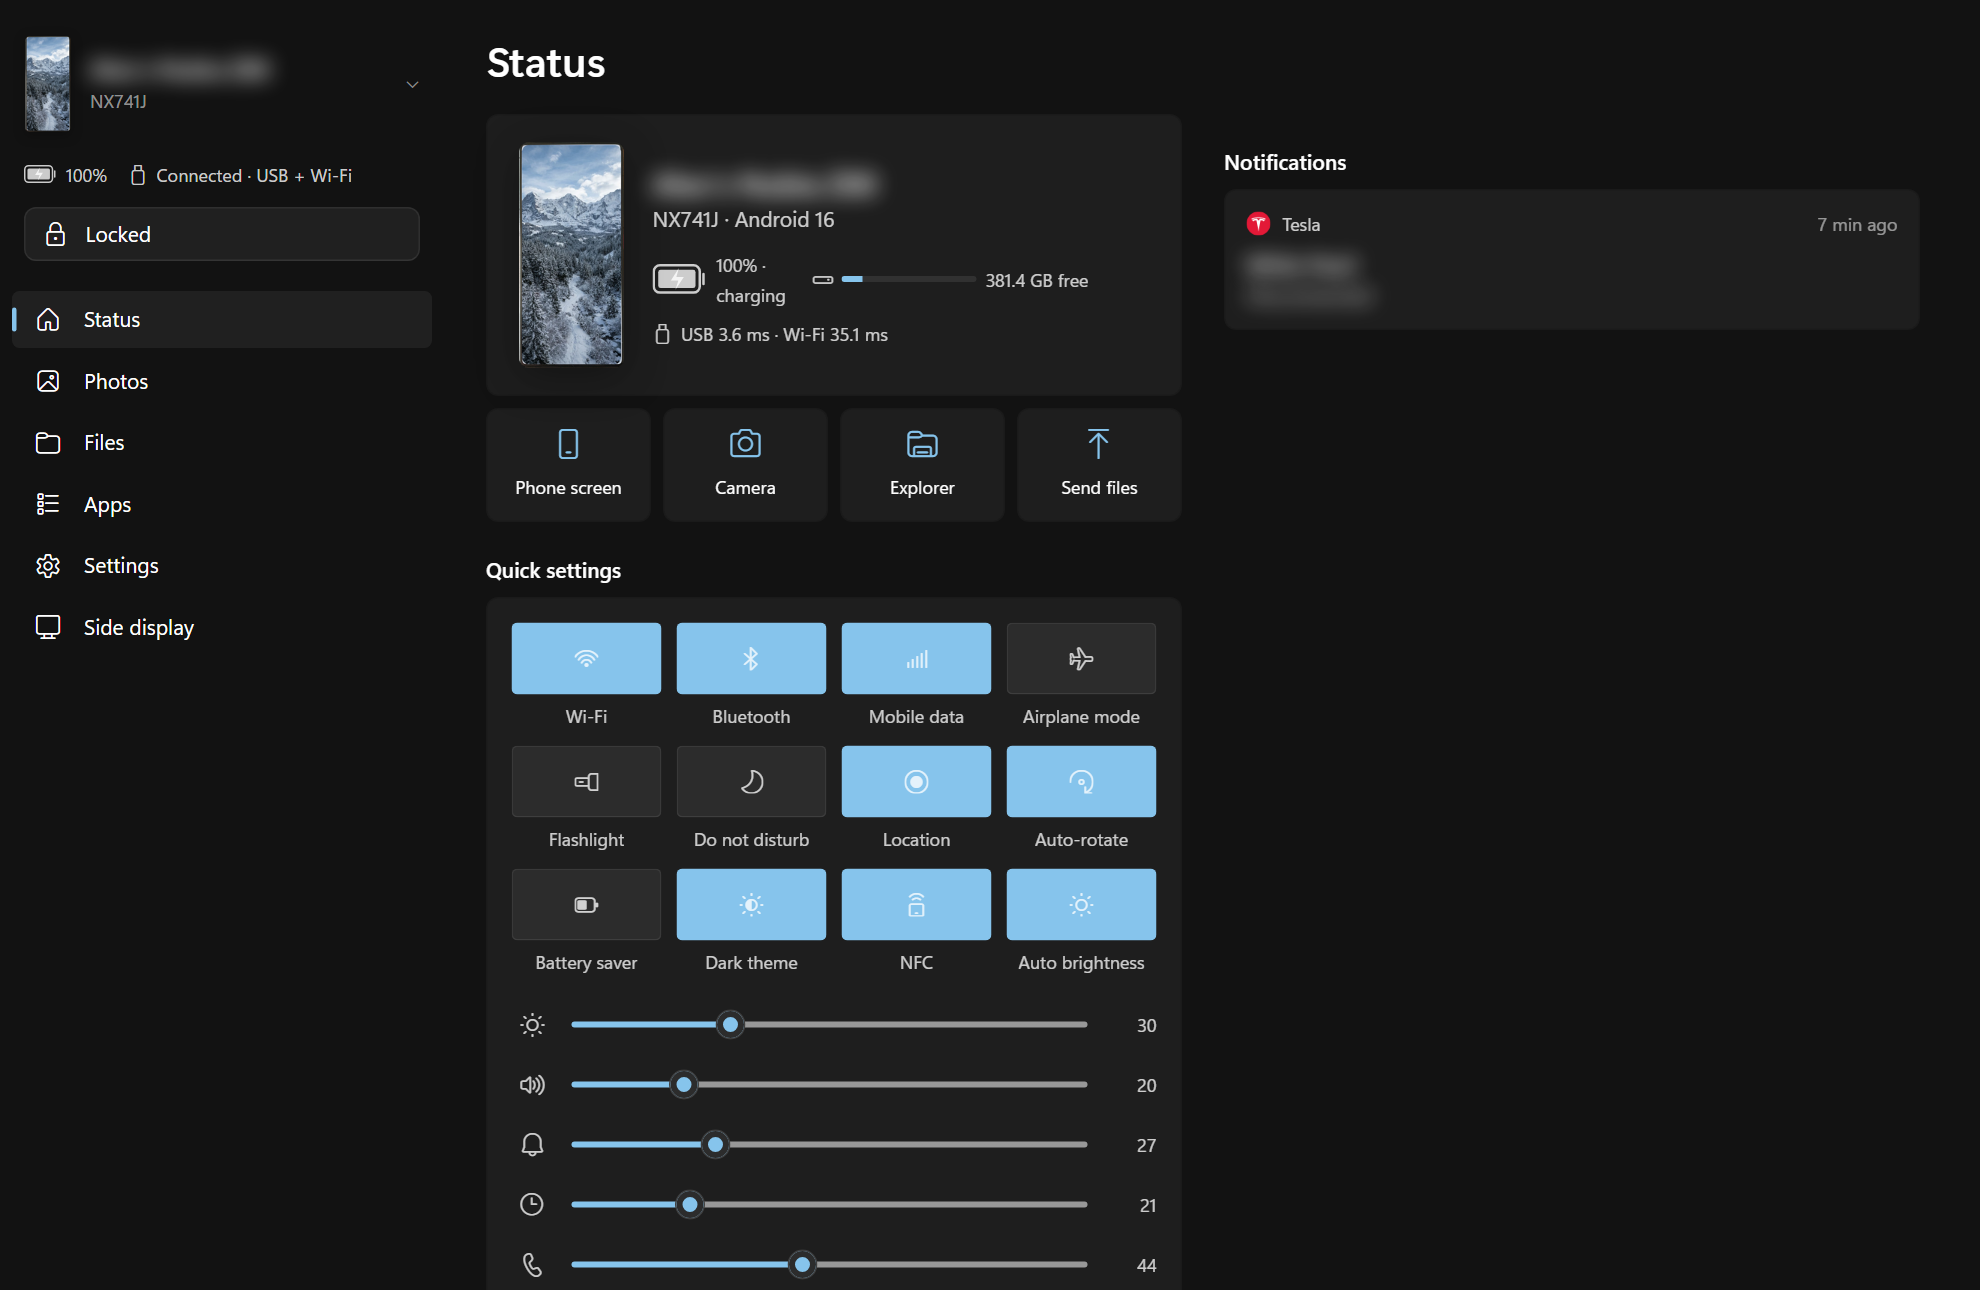
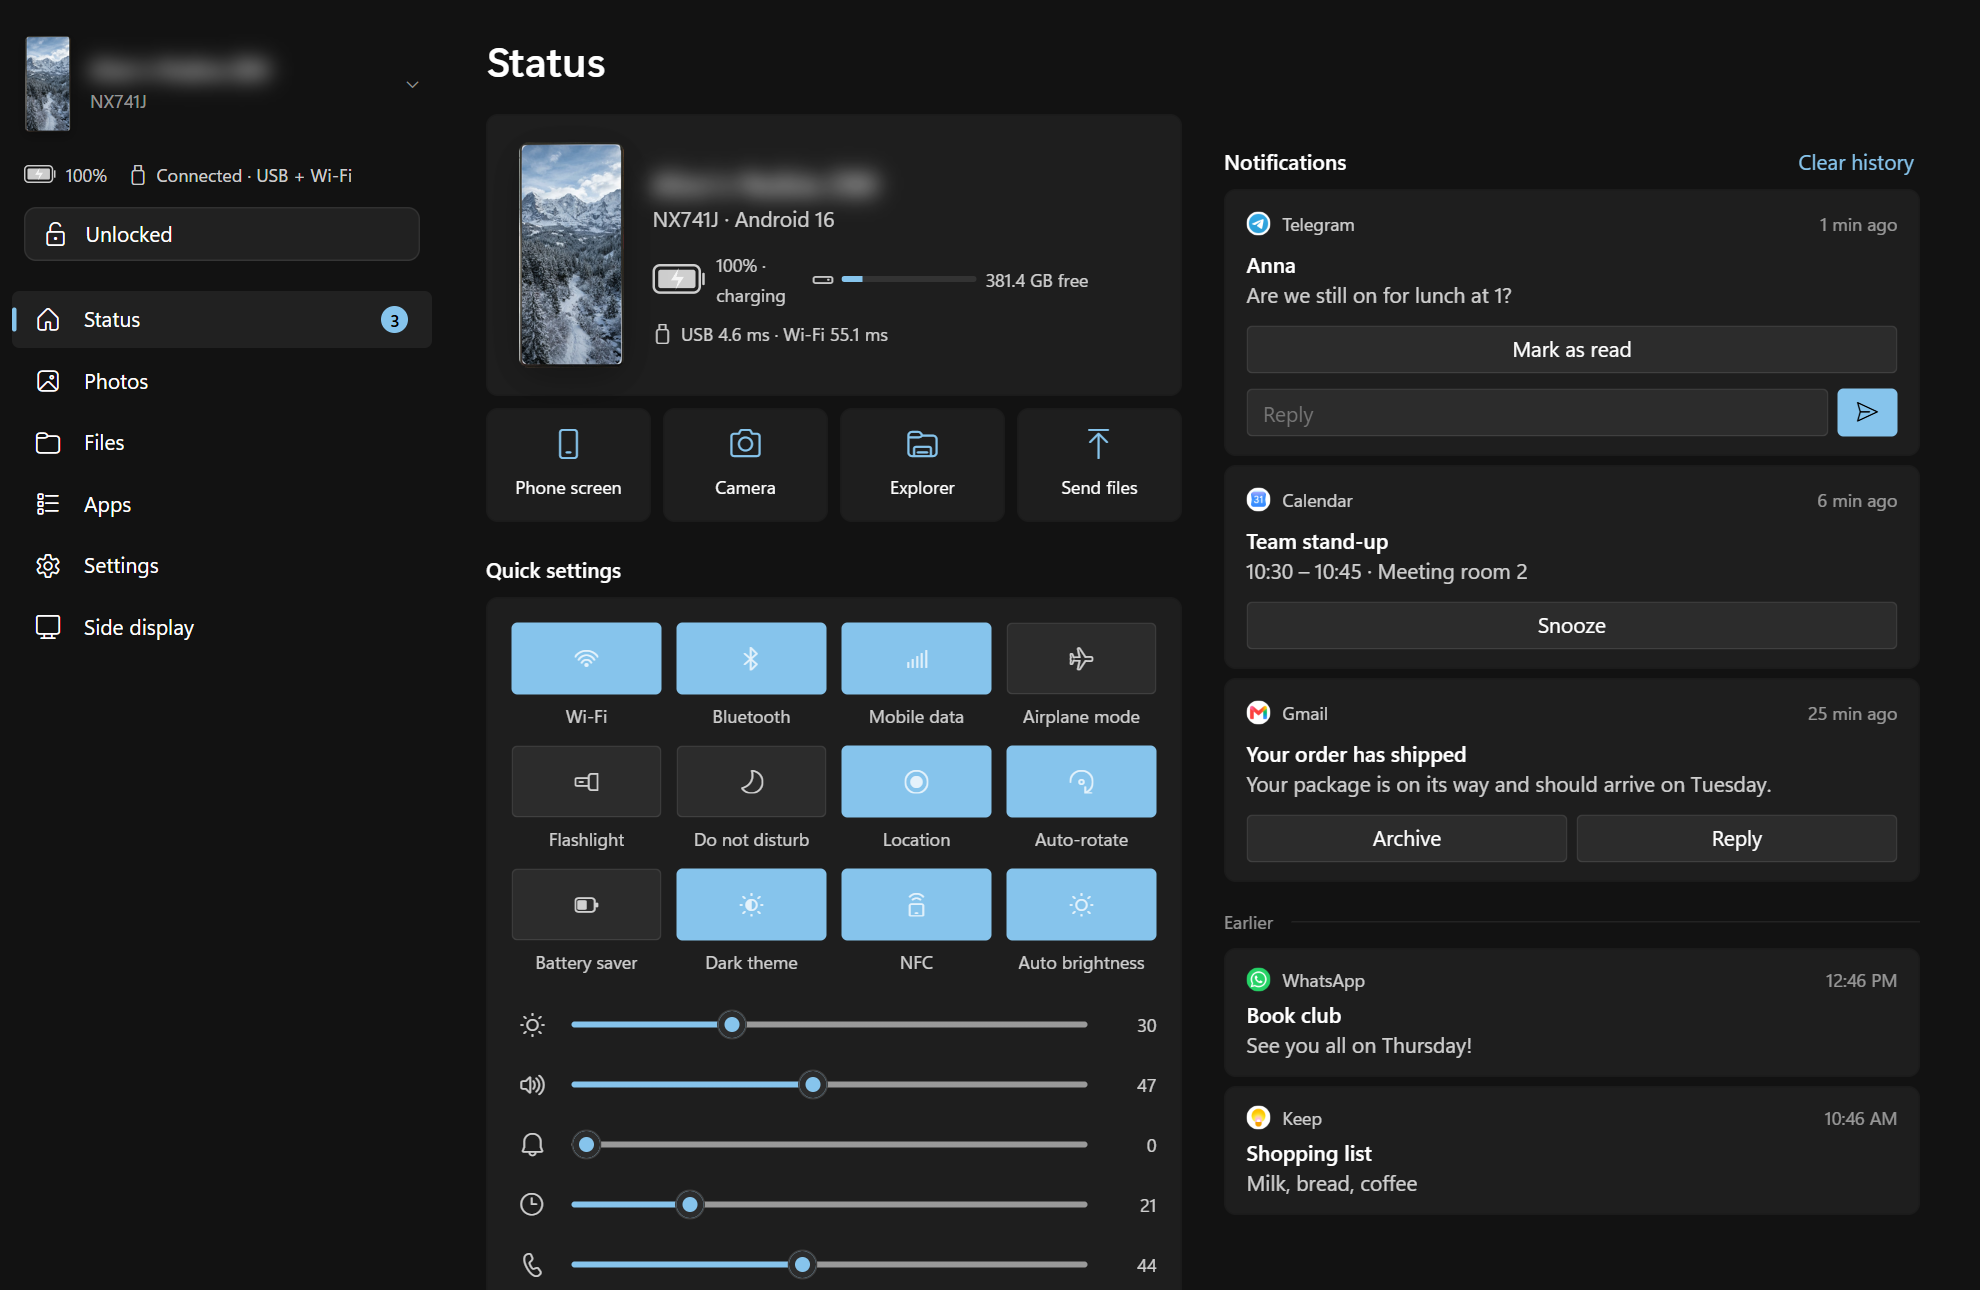
README: user-first description, more screenshots (app windows, notifications, photos, files)
Personal details erased: names blurred, sample notifications, photo thumbnails and private file names blurred,
Wi-Fi name blurred in the app window shot (pc/tools/screenshots.py).

Claude-Session: https://claude.ai/code/session_01LueRgSpt2y7zHM5zH1KC7Y

diff --git a/pc/tools/screenshots.py b/pc/tools/screenshots.py
@@ -1,9 +1,11 @@
-"""README screenshots of the running Windows app (http://127.0.0.1:47801), with personal details blurred.
+"""README screenshots of the running Windows app (http://127.0.0.1:47801), with personal details erased.
 
-    python tools/screenshots.py <out dir>
+    python tools/screenshots.py <out dir> [name ...]
 
-Drives headless Microsoft Edge over the DevTools protocol (nothing appears on screen). Before each capture the
-phone's name, notification senders/texts, the PC name and similar personal text are blurred with CSS.
+Drives headless Microsoft Edge over the DevTools protocol (nothing appears on screen). Before each capture,
+personal details are erased: the phone's and PC's names are blurred, photo thumbnails and non-standard file names
+are blurred, and the notification list is replaced by neutral sample notifications (real app icons, made-up
+senders and texts). App-window shots run real apps in the viewer page (pick apps that show nothing personal).
 """
 import asyncio
 import base64
@@ -12,26 +14,95 @@ import pathlib
 import subprocess
 import sys
 import tempfile
+from urllib.parse import urlencode
 
 import aiohttp
 
 EDGE = r"C:\Program Files (x86)\Microsoft\Edge\Application\msedge.exe"
 PORT = 9339
+APP = "http://127.0.0.1:47801"
+
 BLUR = """
-#devName, #heroName, #dhTitle, .phone-row .row-text b, .row-menu,
-.notif .ti, .notif .tx, .notif .avatar, input[data-set=pc_name], input[data-set=display_name]
+#devName, #heroName, #dhTitle, .phone-row .row-text b, .row-menu, #crumbs button:first-child,
+.notif .avatar, input[data-set=pc_name], input[data-set=display_name], .fs-row.private span:nth-child(2)
 { filter: blur(7px) !important; }
+#grid .tile { filter: blur(30px) saturate(.8) !important; }
 """
-SHOTS = [("status", 1320, 860), ("settings", 1320, 860), ("display", 1320, 860)]
+
+SAMPLE_NOTIFICATIONS = """
+(() => {
+  const now = Date.now();
+  notifs.clear(); freshKeys.clear();
+  const add = o => notifs.set(o.key, Object.assign({ clearable: true, actions: [], ongoing: false, call: false,
+                                                     hasIcon: false }, o));
+  add({ key: "s1", pkg: "org.telegram.messenger", app: "Telegram", title: "Anna", when: now - 60e3,
+        text: "Are we still on for lunch at 1?",
+        actions: [{ i: 0, title: "Reply", reply: true }, { i: 1, title: "Mark as read" }] });
+  add({ key: "s2", pkg: "com.google.android.calendar", app: "Calendar", title: "Team stand-up", when: now - 6 * 60e3,
+        text: "10:30 – 10:45 · Meeting room 2", actions: [{ i: 0, title: "Snooze" }] });
+  add({ key: "s3", pkg: "com.google.android.gm", app: "Gmail", title: "Your order has shipped", when: now - 25 * 60e3,
+        text: "Your package is on its way and should arrive on Tuesday.",
+        actions: [{ i: 0, title: "Archive" }, { i: 1, title: "Reply" }] });
+  history = [
+    { key: "h1", pkg: "com.whatsapp", app: "WhatsApp", title: "Book club", text: "See you all on Thursday!", when: now - 3 * 3600e3 },
+    { key: "h2", pkg: "com.google.android.keep", app: "Keep", title: "Shopping list", text: "Milk, bread, coffee", when: now - 5 * 3600e3 },
+  ];
+  renderNotifs();
+})()
+"""
+
+STANDARD_FOLDERS = ["Alarms", "Android", "Audiobooks", "DCIM", "Documents", "Download", "Movies", "Music",
+                    "Notifications", "Pictures", "Podcasts", "Recordings", "Ringtones"]
+FILES_PREP = """
+(async () => {
+  await fsLoad("/");
+  const ok = new Set(%s);
+  document.querySelectorAll("#fsList .fs-row").forEach(r => {
+    const n = r.querySelector("span:nth-child(2)")?.textContent || "";
+    if (!ok.has(n)) r.classList.add("private");
+  });
+})()
+""" % json.dumps(STANDARD_FOLDERS)
 
 
-async def main(out: pathlib.Path):
+def viewer(pkg: str, label: str) -> str:
+    return f"{APP}/ui/screen.html?" + urlencode({"kind": "app", "pkg": pkg, "label": label, "title": label})
+
+
+# Areas inside app content (the video, not the page) erased after capture: fractions of the image (x0, y0, x1, y1).
+BLUR_RECTS = {
+    "app-settings": [(0.66, 0.17, 0.92, 0.24)],          # the Wi-Fi network name
+}
+
+# name, url, css width, css height, seconds to wait, JS to run before capture
+SHOTS = [
+    ("status", f"{APP}/#status", 1320, 860, 5, SAMPLE_NOTIFICATIONS),
+    ("photos", f"{APP}/#photos", 1320, 860, 6, ""),
+    ("files", f"{APP}/#files", 1320, 860, 4, FILES_PREP),
+    ("settings", f"{APP}/#settings", 1320, 860, 4, ""),
+    ("display", f"{APP}/#display", 1320, 860, 4, ""),
+    ("app-calculator", viewer("com.google.android.calculator", "Calculator"), 420, 900, 9, ""),
+    ("app-settings", viewer("com.android.settings", "Settings"), 420, 900, 8, ""),
+]
+
+
+def erase(path: pathlib.Path, rects):
+    from PIL import Image, ImageFilter
+    img = Image.open(path).convert("RGB")
+    for x0, y0, x1, y1 in rects:
+        box = tuple(round(v) for v in (x0 * img.width, y0 * img.height, x1 * img.width, y1 * img.height))
+        img.paste(img.crop(box).filter(ImageFilter.GaussianBlur(14)), box[:2])
+    img.save(path)
+
+
+async def main(out: pathlib.Path, only: set[str]):
     out.mkdir(parents=True, exist_ok=True)
     with tempfile.TemporaryDirectory(ignore_cleanup_errors=True) as prof:
-        edge = subprocess.Popen([EDGE, "--headless=new", "--disable-gpu", "--hide-scrollbars", "--force-dark-mode",
+        edge = subprocess.Popen([EDGE, "--headless=new", "--hide-scrollbars", "--force-dark-mode",
                                  f"--remote-debugging-port={PORT}", f"--user-data-dir={prof}", "about:blank"])
         try:
             async with aiohttp.ClientSession() as http:
+                pages = []
                 for _ in range(50):
                     try:
                         async with http.get(f"http://127.0.0.1:{PORT}/json") as r:
@@ -53,22 +124,30 @@ async def main(out: pathlib.Path):
                             if m.get("id") == n:
                                 return m.get("result", {})
 
-                    for tab, w, h in SHOTS:
-                        await cdp("Emulation.setDeviceMetricsOverride", width=w, height=h, deviceScaleFactor=1.5,
-                                  mobile=False)
-                        await cdp("Page.navigate", url=f"http://127.0.0.1:47801/#{tab}")
-                        await asyncio.sleep(5)          # state, phone picture, notifications
+                    for name, url, w, h, wait, prep in SHOTS:
+                        if only and name not in only:
+                            continue
+                        await cdp("Emulation.setDeviceMetricsOverride", width=w, height=h,
+                                  deviceScaleFactor=1.5 if w > 600 else 2, mobile=False)
+                        await cdp("Page.navigate", url=url)
+                        await asyncio.sleep(wait)
+                        if prep:
+                            await cdp("Runtime.evaluate", expression=prep, awaitPromise=True)
                         await cdp("Runtime.evaluate", expression=(
                             "(() => { const s = document.createElement('style'); s.textContent = "
                             + json.dumps(BLUR) + "; document.head.append(s); })()"))
-                        await asyncio.sleep(0.5)
+                        await asyncio.sleep(1)
                         shot = await cdp("Page.captureScreenshot", format="png")
-                        (out / f"{tab}.png").write_bytes(base64.b64decode(shot["data"]))
-                        print("captured", tab)
+                        (out / f"{name}.png").write_bytes(base64.b64decode(shot["data"]))
+                        if name in BLUR_RECTS:
+                            erase(out / f"{name}.png", BLUR_RECTS[name])
+                        print("captured", name)
+                    await cdp("Page.navigate", url="about:blank")    # ends the last app session
+                    await asyncio.sleep(1)
         finally:
             edge.kill()
             edge.wait(10)
 
 
 if __name__ == "__main__":
-    asyncio.run(main(pathlib.Path(sys.argv[1])))
+    asyncio.run(main(pathlib.Path(sys.argv[1]), set(sys.argv[2:])))

diff --git a/README.md b/README.md
@@ -6,32 +6,99 @@
 [![Android app](https://github.com/alex-aprm/symphone/actions/workflows/android.yml/badge.svg)](https://github.com/alex-aprm/symphone/actions/workflows/android.yml)
 [![Buy me a coffee](https://img.shields.io/badge/Buy%20me%20a%20coffee-alexaprm-ffdd00?logo=buymeacoffee&logoColor=black)](https://buymeacoffee.com/alexaprm)
 
-Windows 11 ⇄ Android companion. It has two parts: a Windows app (`pc/`) and an Android app (`android/`). The phone runs a small, fast server. The PC finds it over the same Wi‑Fi (UDP beacon + mDNS) or USB (`adb forward`) and uses **both links at once** for bulk transfers.
+**Your Android phone, right on your Windows PC.** Open phone apps in windows and type in them with your
+keyboard, answer notifications, browse photos and files, share the clipboard, take calls, use the phone as a webcam
+or as a second screen — over USB, Wi‑Fi or both, even while the phone stays locked in your pocket.
 
-| Status | Settings | Side display |
-|---|---|---|
-| ![Status](docs/screenshots/status.png) | ![Settings](docs/screenshots/settings.png) | ![Side display](docs/screenshots/display.png) |
+## What you can do
+
+### Phone apps in PC windows
+
+- Open **any phone app in its own window**, side by side with your Windows apps — it works while the phone is
+  locked and its screen stays off.
+- **Type with your PC keyboard** in any language; the phone's keyboard stays out of the way.
+  Scroll and pinch with the touchpad, right-click for Back.
+- Windows **resize like desktop apps** (the app re-lays itself out), and a **pin** keeps one on top.
+- **Pick the phone up** and use the app there: the PC window softly blurs. Put the phone down and the app is back
+  on the PC.
+- Apps that forbid screen capture (banking, government ids) say so and offer to continue on the phone.
+
+<p>
+  <img src="docs/screenshots/app-settings.png" width="260" alt="The phone's Settings app in a Symphone window">
+  &nbsp;
+  <img src="docs/screenshots/app-calculator.png" width="260" alt="Calculator in a Symphone window">
+</p>
+
+<sub>Real apps in Symphone windows (Wi‑Fi name blurred); the toolbar underneath has Back, volume, rotate,
+screenshot, zoom, pin on top and stats.</sub>
+
+### Notifications you can act on
+
+![Status page with notifications (sample notifications)](docs/screenshots/status.png)
+
+- Phone notifications show up in Windows and on the Status page — **reply inline**, use their buttons, or click to
+  open the conversation in a window, exactly where tapping it on the phone would take you.
+- Incoming calls ring on the PC; answer with the PC's speakers and mic.
+- The Status page also has the phone's quick settings: Wi‑Fi, Bluetooth, flashlight, do not disturb, volume…
+
+<sub>Screenshot with sample notifications; the phone's name is blurred.</sub>
+
+### Photos and files
+
+| Photos | Files |
+|---|---|
+| ![Photos (thumbnails blurred)](docs/screenshots/photos.png) | ![Files](docs/screenshots/files.png) |
+
+- **All your photos and videos** at a glance; new shots appear within a second and can be imported automatically.
+- The phone's storage is **in Explorer**, next to *This PC*. Copies use USB and Wi‑Fi at the same time.
+- Right-click → **Send to → your phone** in Explorer; on the phone, **Share → Send to PC**.
+
+<sub>Photo thumbnails and personal file names blurred.</sub>
+
+### And more
+
+| Settings | Side display |
+|---|---|
+| ![Settings](docs/screenshots/settings.png) | ![Side display](docs/screenshots/display.png) |
+
+- **Shared clipboard** — copy on one, paste on the other.
+- **Webcam** — the phone's camera as a Windows camera for Teams, Zoom & co., upright however the phone stands.
+- **Side display** — the phone as an extra Windows monitor with touch.
+- **Sound** — PC audio to the phone, phone audio and mic to the PC.
+- **Unlock and lock** the phone from the PC, see its battery at a glance.
+- **Several phones and PCs** — switch between them; each phone picks its main PC.
+- It reconnects by itself whenever the phone is nearby, and looks like part of Windows (light/dark, accent color,
+  translucent window).
 
 ## Install
 
-Download the latest **Symphone-…-windows-x64.zip** and **Symphone.apk** from
-[Releases](https://github.com/alex-aprm/symphone/releases/latest).
+You need **Windows 11** and an **Android 11+** phone.
 
-```powershell
-# extract the zip, then (per user, no admin):
-powershell -ExecutionPolicy Bypass -File Symphone\install.ps1      # copies to %LOCALAPPDATA%\Programs\Symphone,
-                                                                    # installs the phone app over USB, starts Symphone
-# optional, one-time, as administrator: WinFsp (phone storage in Explorer), VB-CABLE (virtual mic),
-# Quick Share for Windows, firewall rules for discovery on the LAN
-powershell -ExecutionPolicy Bypass -File Symphone\setup\admin-setup.ps1
-# optional extras (admin): side display driver and Windows virtual camera
-powershell -ExecutionPolicy Bypass -File Symphone\sidecar\driver\install.ps1
-powershell -ExecutionPolicy Bypass -File Symphone\vcam\install.ps1
-```
+1. Download **Symphone-…-windows-x64.zip** from [Releases](https://github.com/alex-aprm/symphone/releases/latest)
+   and extract it.
+2. On the phone, turn on **USB debugging** (Settings › About phone › tap *Build number* 7 times, then Developer
+   options › USB debugging) and plug it into the PC.
+3. Run `Symphone\install.ps1` (right-click → *Run with PowerShell*). It installs Symphone for your user, puts the
+   phone app on the phone and sets everything up — no tapping through permission screens.
 
-The Windows app keeps the phone app up to date by itself (it carries the matching APK).
+After that, USB is optional: the phone connects over Wi‑Fi by itself. More phones can be added from Settings ›
+*Add a phone* with a QR code.
 
-### Building
+Optional extras (one-time, as administrator): phone storage as a native drive in Explorer, a virtual microphone
+and firewall rules — `Symphone\setup\admin-setup.ps1`; the side display driver —
+`Symphone\sidecar\driver\install.ps1`; the Windows webcam — `Symphone\vcam\install.ps1`.
+
+The Windows app keeps the phone app up to date.
+
+## Under the hood
+
+Two parts: a Windows app (`pc/`, Python + WebView2) and an Android app (`android/`, Kotlin). The phone runs a
+small, fast server; the PC finds it over the same Wi‑Fi (UDP beacon + mDNS), Wi‑Fi Direct or USB
+(`adb forward`), and uses **all links at once** for bulk transfers.
+
+The first time the phone is connected over USB with debugging enabled, the PC grants every permission over adb, so you don't tap anything on the phone. That covers all-files access, notification access, "open apps from background", unrestricted battery, nubia AutoLaunch whitelist, calls and camera. It also fetches the pairing token and enables wireless debugging. After that, USB is optional. Without USB you can pair from Settings with the 6‑digit code shown in the phone app.
+
+### Building from source
 
 Every push builds the Android app ([android.yml](.github/workflows/android.yml)); pushing a `v*` tag builds
 everything and publishes a release ([release.yml](.github/workflows/release.yml)): the patched scrcpy server, the
@@ -44,9 +111,8 @@ cmd /c sidecar\native\build.cmd                                     # vddctl + s
 cd pc; py -3.14 -m venv .venv; .venv\Scripts\pip install -r requirements.txt; .\build.ps1    # -> pc\dist\Symphone
 ```
 
-The first time the phone is connected over USB with debugging enabled, the PC grants every permission over adb, so you don't tap anything on the phone. That covers all-files access, notification access, "open apps from background", unrestricted battery, nubia AutoLaunch whitelist, calls and camera. It also fetches the pairing token and enables wireless debugging. After that, USB is optional. Without USB you can pair from Settings with the 6‑digit code shown in the phone app.
 
-## Features
+### Features in detail
 
 | Feature | How |
 |---|---|
